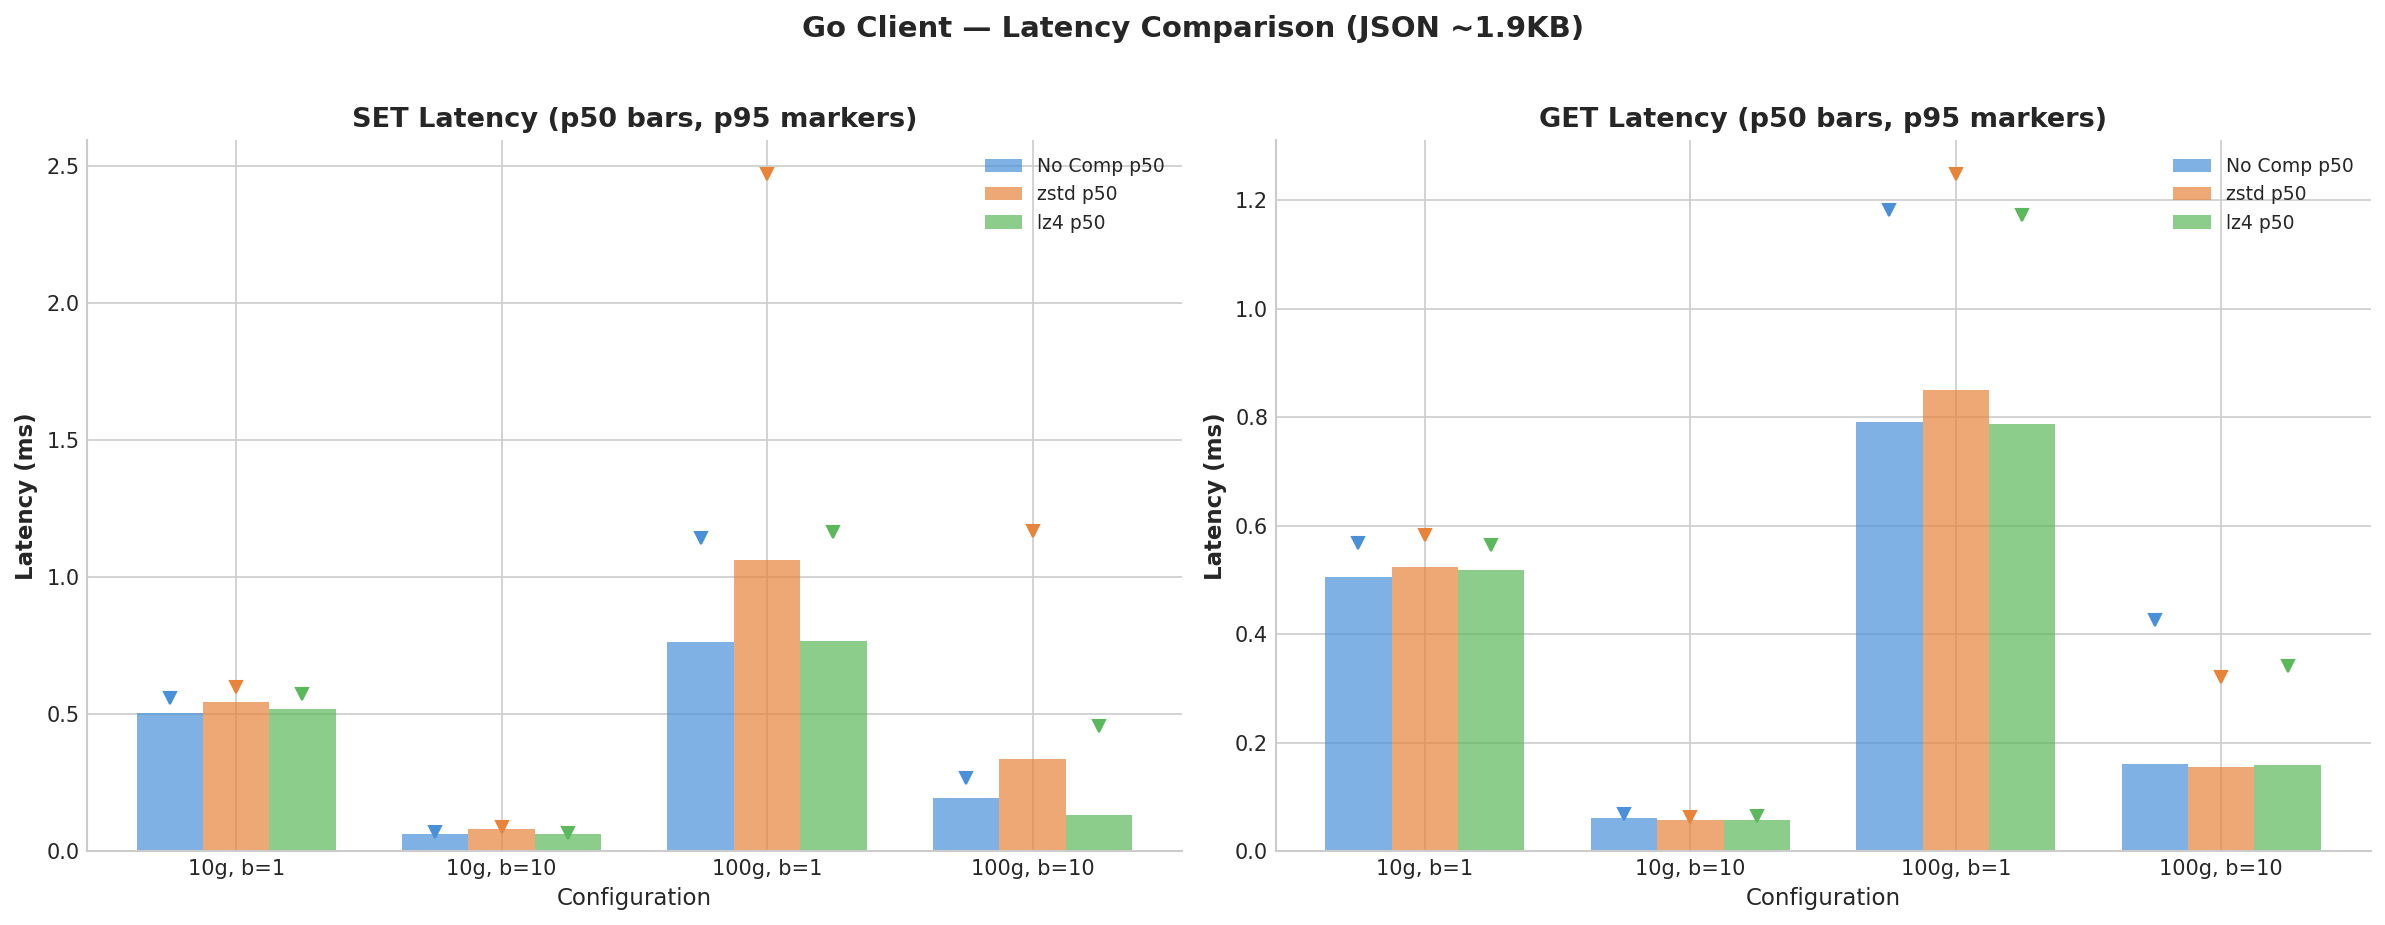
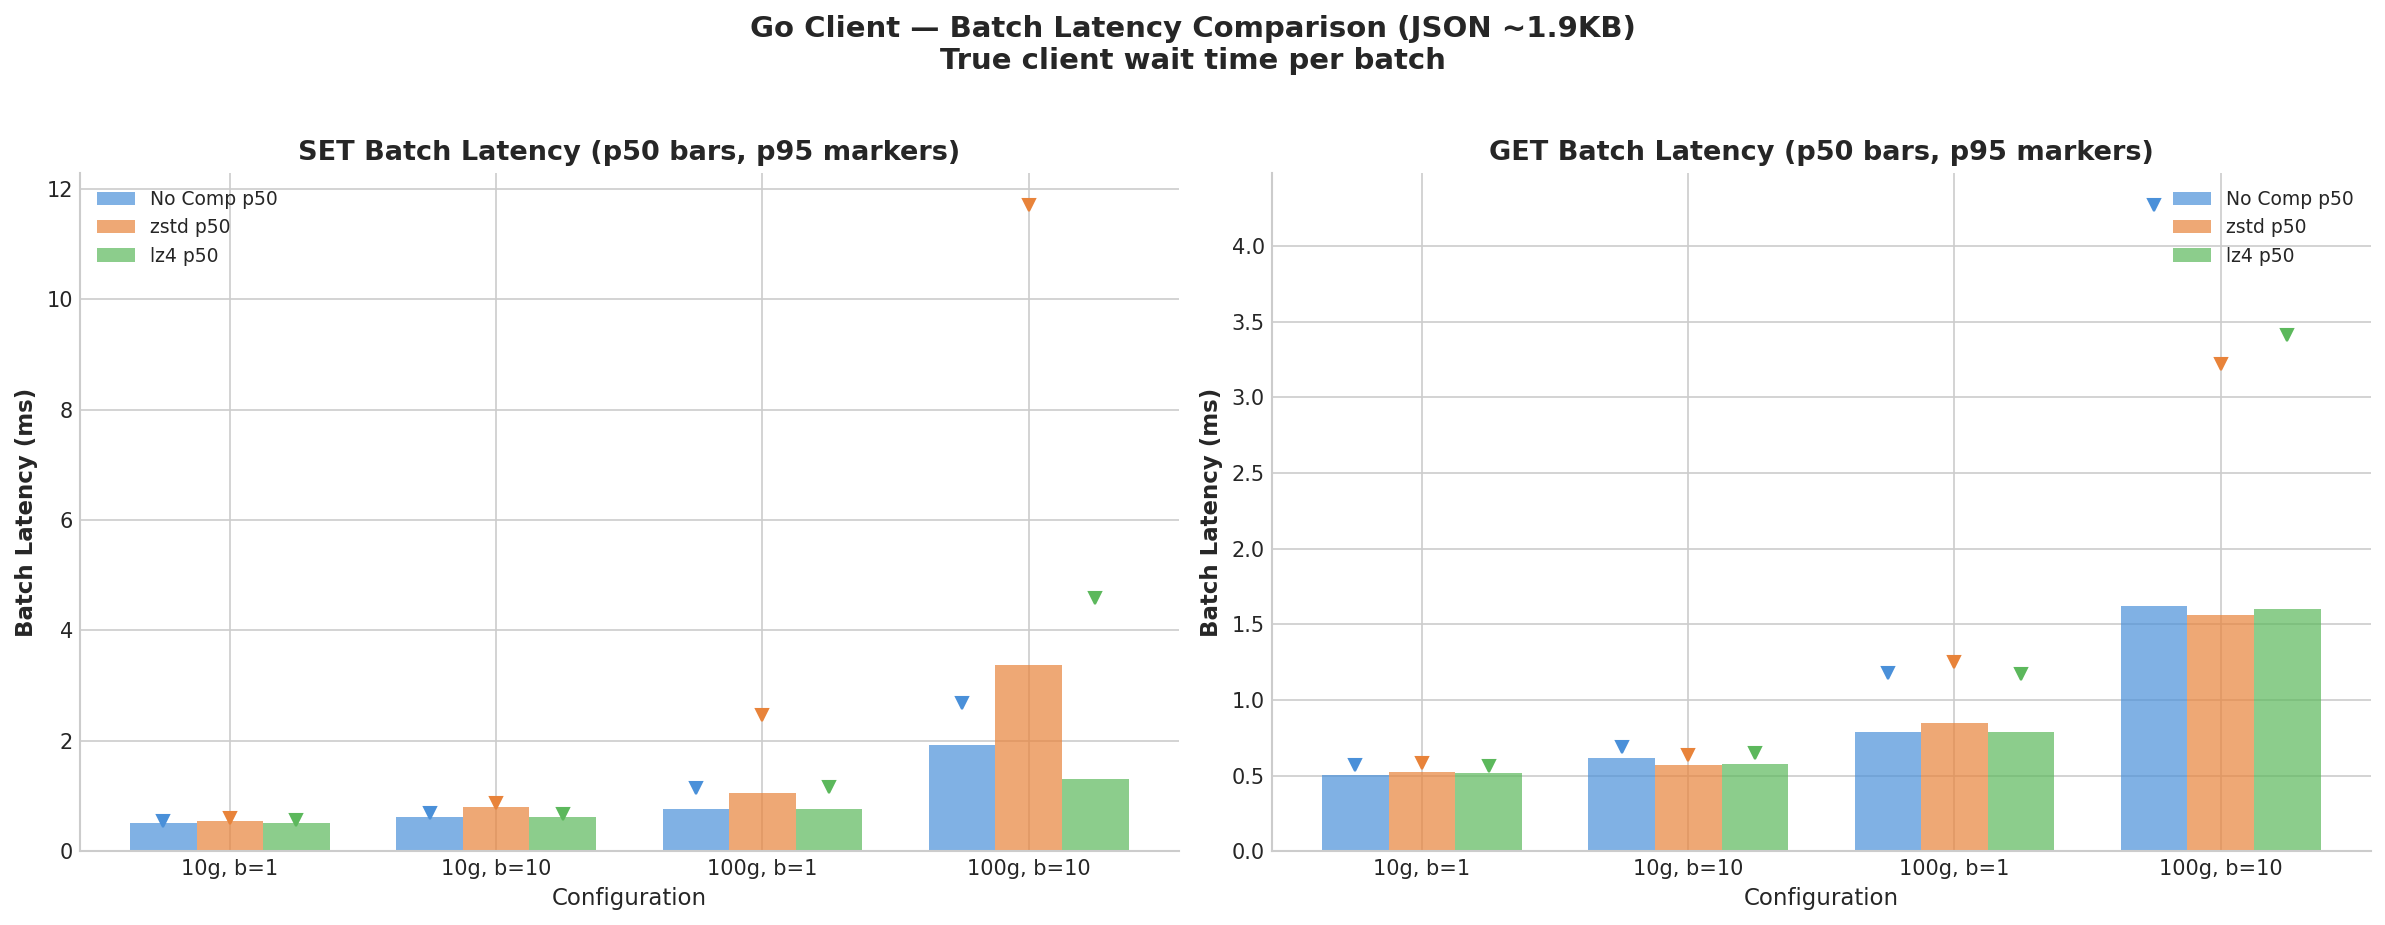
reviews

diff --git a/content/blog/2025-07-01-compression-improves-everything/index.md b/content/blog/2025-07-01-compression-improves-everything/index.md
@@ -8,7 +8,7 @@ authors = ["dknowles"]
 featured_image = "/assets/media/featured/random-03.webp"
 +++
 
-If you're caching JSON API responses, storing user sessions, or buffering HTML fragments in Valkey, there's a good chance your data is highly compressible while you're still paying full price for every byte. At scale, redundant data adds up fast. ~1KB JSON payloads across millions of keys means gigabytes of memory that could be reclaimed without losing a single field.
+If you're caching JSON API responses, storing user sessions, or buffering HTML fragments in Valkey, there's a good chance your data is highly compressible while you're still paying full price for every byte. At scale, redundant data adds up fast. ~1KB JSON payloads across millions of keys means gigabytes of memory that could be reclaimed without losing a single field. Even if your overall cache storage size footprint is small, availability zone and cross-region data transfer fees can still drive up your costs.
 
 Transparent compression in [Valkey GLIDE](https://github.com/valkey-io/valkey-glide) offers a seamless solution to this problem. When you write data with a `SET` command, GLIDE compresses it before sending it to the server. When you read it back with `GET`, GLIDE decompresses it automatically. Your application code doesn't change — you just flip a switch in the client configuration:
 
@@ -31,7 +31,7 @@ client.Set(ctx, "user:1001:profile", string(userDataJSON))
 result, _ := client.Get(ctx, "user:1001:profile")
 ```
 
-In our benchmarks using the Go client, this single configuration change delivered 28–49% memory savings depending on algorithm choice and data shape, with LZ4 showing near-zero throughput impact and Zstandard (zstd) nearly halving memory usage at a moderate write throughput cost. This post walks through how the feature works, what the benchmarks show, and how to choose the right settings for your workload.
+In benchmarks using the Go client, this single configuration change delivered 28–49% memory savings depending on algorithm choice and data shape, with LZ4 showing near-zero throughput impact and Zstandard (zstd) nearly halving memory usage at a moderate write throughput cost. This post walks through how the feature works, what the benchmarks show, and how to choose the right settings for your workload.
 
 ## How It Works
 
@@ -47,8 +47,6 @@ On the read path, the process reverses. GLIDE checks for the header, decompresse
 GLIDE uses a 5-byte header (`[Magic Prefix: 3 bytes][Version: 1 byte][Backend ID: 1 byte]`) to tag compressed values. The backend ID means a zstd-configured client can read LZ4-compressed data and vice versa. All GLIDE language bindings (Python, Node.js, Java, Go) share the same header format, so compressed data written from one language can be read from another.
 
 A few safety-by-default choices keep compression from ever getting in the way: if compression fails for any reason, GLIDE silently falls back to uncompressed data. Data that already carries the GLIDE header won't be double-compressed. And after compressing, GLIDE compares sizes — if compression didn't help, the original goes through unchanged.
-
-## Benchmark Results
 
 ## Memory Savings
 
@@ -90,9 +88,9 @@ A few patterns jump out:
 
 ## The Core Tradeoff: Memory vs Throughput
 
-We benchmarked performance using the Go GLIDE client on Amazon EC2 r7g.2xlarge instances (8 vCPUs, 64 GB RAM, AWS Graviton3) with the client and Valkey 8.0 server running on separate hosts in the same AWS VPC. The test corpus was JSON payloads averaging ~1,884 bytes per value. We swept a matrix of 80 configurations across goroutine counts (1, 2, 4, 8, 10, 25, 100, 1000) and pipeline batch sizes (1, 5, 10, 20, 50).
+Benchmarks were generated using the Go GLIDE client on Amazon EC2 r7g.2xlarge instances (8 vCPUs, 64 GB RAM, AWS Graviton3) with the client and Valkey 8.0 server running on separate hosts in the same AWS VPC. The test corpus was JSON payloads averaging ~1,884 bytes per value. A benchmark script swept a matrix of 80 configurations across goroutine counts (1, 2, 4, 8, 10, 25, 100, 1000) and pipeline batch sizes (1, 5, 10, 20, 50).
 
-Here's how throughput scales with goroutines for batch sizes 1 and 10:
+Here's how throughput scales with goroutines for batch sizes 1 and 10 for SET and GET operations:
 
 ![SET scaling: batch=1 vs batch=10](graph_scaling_set.png)
 ![GET scaling: batch=1 vs batch=10](graph_scaling_get.png)
@@ -103,40 +101,9 @@ The two algorithms represent a clear tradeoff:
 
 - **Zstd** delivers 49.3% memory savings with a moderate CPU cost. SET throughput ratios ranged from 0.41x to 0.97x. The cost is proportional to throughput: at low throughput, zstd costs only 3–7%. At high throughput with batching, the cost grows as compression becomes a larger fraction of total per-operation time.
 
-The heatmap below shows the full picture — SET throughput ratio (compressed / baseline) across every goroutine count and batch size combination we tested. Green cells mean compression added no meaningful overhead or was actually faster; red cells indicate where compression CPU cost dominated. LZ4 is green almost everywhere, while zstd shows a clear gradient: low overhead at small batch sizes (where network latency dominates) and increasing cost as batching pushes throughput higher.
+The heatmap below shows the full picture — SET throughput ratio (compressed / baseline) across every goroutine count and batch size combination tested. Green cells mean compression added no meaningful overhead or was actually faster; red cells indicate where compression CPU cost dominated. LZ4 is green almost everywhere, while zstd shows a clear gradient: low overhead at small batch sizes (where network latency dominates) and increasing cost as batching pushes throughput higher.
 
 ![SET compression overhead heatmap](graph_ratio_heatmap.png)
-
-## Scaling with Goroutines
-
-One of Go's strengths is effortless concurrency. Our benchmarks show that both compression backends scale cleanly with goroutine count up to the hardware limit (8 vCPUs). The table below uses batch size 10:
-
-| Goroutines | Baseline SET | zstd SET | zstd Ratio | LZ4 SET | LZ4 Ratio |
-|------------|-------------|----------|------------|---------|-----------|
-| 1 | 18,205 | 13,327 | 0.73x | 17,058 | 0.94x |
-| 2 | 32,919 | 24,074 | 0.73x | 32,963 | 1.00x |
-| 4 | 63,996 | 50,648 | 0.79x | 61,789 | 0.97x |
-| 8 | 124,916 | 94,587 | 0.76x | 118,091 | 0.95x |
-| 10 | 146,831 | 117,218 | 0.80x | 152,778 | 1.04x |
-| 25 | 348,691 | 203,420 | 0.58x | 349,196 | 1.00x |
-| 100 | 498,108 | 204,558 | 0.41x | 484,338 | 0.97x |
-
-Zstd scales linearly from 1 to 8 goroutines (13K → 95K SET TPS, a 7.1x improvement on 8 cores), then plateaus around 200K as compression CPU saturates the available cores. LZ4 tracks the uncompressed baseline almost exactly at every goroutine count.
-
-Not every workload can use batching. For request-per-request patterns (batch=1), here's how throughput scales with goroutines alone:
-
-| Goroutines | Baseline SET | zstd SET | zstd Ratio | LZ4 SET | LZ4 Ratio |
-|------------|-------------|----------|------------|---------|-----------|
-| 1 | 2,047 | 1,807 | 0.93x | 2,093 | 1.02x |
-| 2 | 3,664 | 3,810 | 1.04x | 3,922 | 1.10x |
-| 4 | 7,742 | 7,257 | 0.95x | 7,435 | 0.96x |
-| 8 | 14,933 | 14,624 | 0.98x | 14,698 | 0.98x |
-| 10 | 18,511 | 16,881 | 0.94x | 17,894 | 0.97x |
-| 25 | 41,797 | 40,007 | 0.96x | 42,457 | 1.02x |
-| 100 | 121,733 | 79,603 | 0.66x | 117,093 | 0.96x |
-| 1,000 | 110,166 | 78,429 | 0.71x | 112,980 | 1.39x |
-
-Without batching, throughput is network-latency-bound at low goroutine counts — a single goroutine tops out around 2K TPS (~0.49ms per round-trip). Scaling to 100 goroutines pushes baseline to 122K SET TPS. Both zstd and LZ4 show minimal overhead in this configuration because the network round-trip dominates per-operation time. At 1,000 goroutines, contention introduces significant run-to-run variance. The LZ4 ratio above 1.0x reflects noisy baselines rather than compression making operations faster.
 
 ## Batching Is the Real Throughput Lever
 
@@ -146,13 +113,15 @@ Going from batch size 1 to 50 at 10 goroutines takes baseline SET throughput fro
 
 ## Latency
 
-At batch=1 (no pipelining), zstd adds a fraction of a millisecond to SET latency — from 0.50ms to 0.55ms p50 at 10 goroutines. LZ4 adds essentially nothing. At higher batch sizes, per-operation latency drops for all backends because batching amortizes round-trip cost.
+At batch=1 (no pipelining), zstd adds a fraction of a millisecond to SET latency — from 0.50ms to 0.55ms p50 at 10 goroutines. LZ4 adds essentially nothing. At higher batch sizes, total batch latency — the time a client actually waits for a response — grows for all backends. At batch=10 with 10 goroutines, baseline batch latency rises to ~0.62ms, zstd to ~0.80ms, and LZ4 stays at ~0.62ms. The cost of zstd scales with the number of values compressed per batch, while LZ4 remains close to baseline throughout.
 
-![Latency comparison](graph_latency.png)
+![Batch latency comparison](graph_latency.png)
 
 ## Choosing the Right Configuration
 
-**Start with LZ4** if throughput matters. Switch to zstd if you need maximum memory savings and have throughput headroom. The savings you'll see depend heavily on your data type and value size — HTML compresses best, session data compresses least, and anything under 100 bytes isn't worth compressing. Skip compression entirely for already-compressed data (images, video, pre-compressed content).
+**Start with LZ4** if latency matters. Switch to zstd if you need maximum memory savings and can take a slight hit to latency. The savings you'll see depend heavily on your data type and value size — HTML compresses best, session data compresses least, and anything under 100 bytes isn't worth compressing. Skip compression entirely for already-compressed data (images, video, pre-compressed content).
+
+**Throughput** can be recovered when using zstd by investing in more compute. Scale your application horizontally or vertically and you can bring zstd throughput up to par with your previously uncompressed workload. While this increases your application's compute costs, the storage saving costs can completely offset this depending on your throughput vs. storage needs. Consider a 250GB caching workload running on an AWS r7g.16xlarge ($3.427/hour) served by an application running on a c7g.4xlarge ($0.5781/hour). If zstd can cut your storage requirements by ~40%, you can downgrade your cache instance to an r7g.8xlarge ($1.714/hour) and upgrade your application to a c7g.8xlarge ($1.1562/hour) to make up for the zstd throughput hit for a net savings of $1.1349/hour or a ~28% cost reduction overall.
 
 For value sizes:
 - **Under 100 bytes**: Skip compression. Neither algorithm saves meaningful memory at this size — the 5-byte header overhead and Valkey's per-key metadata dominate.
@@ -160,7 +129,6 @@ For value sizes:
 - **500–1,000 bytes**: Solid savings across all data types. Expect 17–49% with zstd and 0–39% with LZ4 depending on data type.
 - **Over 1,000 bytes**: Strongly recommended. Expect 24–50% with zstd and 12–39% with LZ4.
 
-For batched operations: prefer LZ4. Zstd throughput drops as batch size increases because compression CPU becomes the bottleneck.
 
 Here's a complete configuration example:
 
@@ -176,7 +144,7 @@ cfg := config.NewClientConfiguration().
         config.NewCompressionConfiguration().
             WithBackend(config.LZ4).          // or config.ZSTD
             WithCompressionLevel(0).          // lz4: -128 to 12; zstd: -131072 to 22
-            WithMinCompressionSize(64),       // Skip values smaller than 64 bytes
+            WithMinCompressionSize(100),       // Skip values smaller than 100 bytes
     )
 
 client, err := glide.NewClient(cfg)
@@ -186,23 +154,23 @@ Compression works identically with `ClusterClient` — just pass the same compre
 
 ## Gradual Rollout
 
-One of the most practical aspects of GLIDE's compression design is that you don't need a big-bang migration. Compression-enabled clients read uncompressed data transparently. Clients configured with zstd can read LZ4-compressed data and vice versa. This means you can roll out incrementally: deploy new clients with compression enabled, and as keys expire or get updated through normal application flow, data naturally migrates to compressed format — no migration scripts, no downtime.
+One of the most practical aspects of GLIDE's compression design is that you don't need to plan a migration. Compression-enabled clients read uncompressed data transparently. Clients configured with zstd can read LZ4-compressed data and vice versa. This means you can roll out incrementally: deploy your application clients with compression enabled, and as keys expire or get updated through normal application flow, data naturally migrates to compressed format — no migration scripts, no downtime.
 
 ## Conclusion
 
-Transparent compression gives you a meaningful reduction in memory usage with minimal effort. LZ4 is effectively free at 28% savings; zstd nearly halves memory at a moderate write throughput cost that scales predictably with goroutine count. The feature is available today across all GLIDE language bindings and requires only a single configuration change.
+Transparent compression gives you a meaningful reduction in memory usage with minimal effort. LZ4 is effectively free at 28% savings; zstd nearly halves memory at a moderate write throughput cost. The feature is available today across all GLIDE language bindings and requires only a single configuration change.
 
 We'd love to hear about your experience with compression — what data types you're compressing, what savings you're seeing, and what would make the feature more useful. Join the conversation on [GitHub Discussions](https://github.com/valkey-io/valkey-glide/discussions).
 
 To get started:
 - [Valkey GLIDE GitHub Repository](https://github.com/valkey-io/valkey-glide)
-- [Go Compression Benchmark Tool & Data](https://github.com/valkey-io/valkey-glide/tree/main/benchmarks/compression_benchmark)
+
 
 
 
 ## Appendix: Sample Data from the Benchmark Corpus
 
-The following are representative values from the `example_data/` corpus used in the benchmarks above. Each sample corresponds to a row in the [Memory Savings by Data Type and Value Size](#memory-savings-by-data-type-and-value-size) table.
+The following are representative values from the data corpus used in the benchmarks above. Each sample corresponds to a row in the [Memory Savings by Data Type and Value Size](#memory-savings-by-data-type-and-value-size) table.
 
 ### JSON — Large (462 bytes)
 
